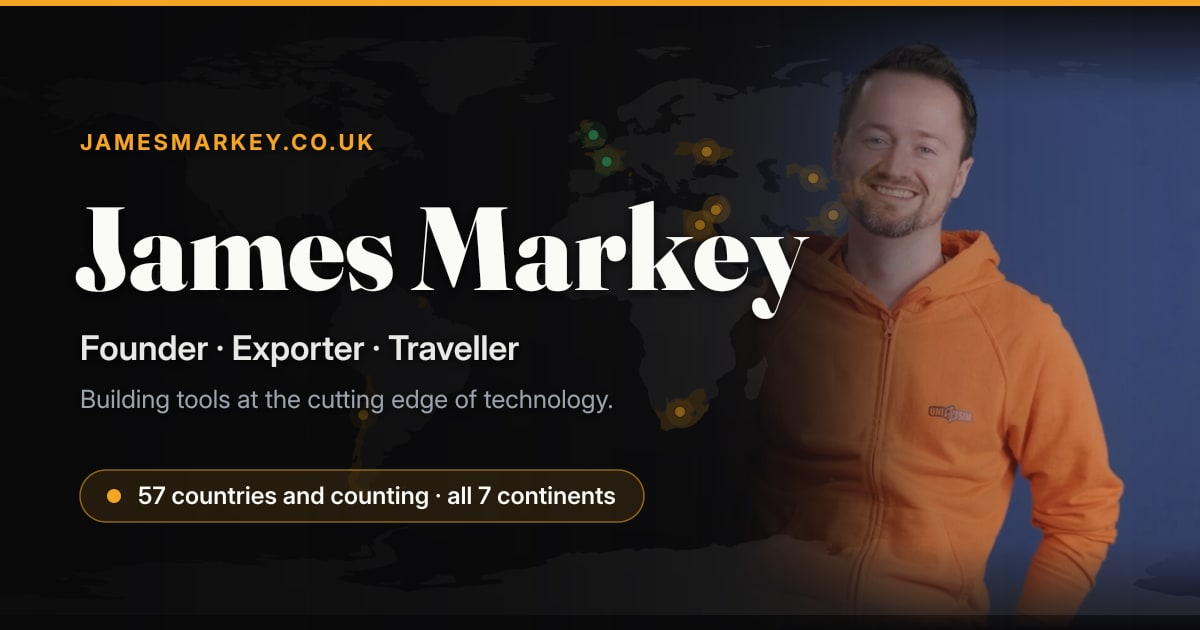
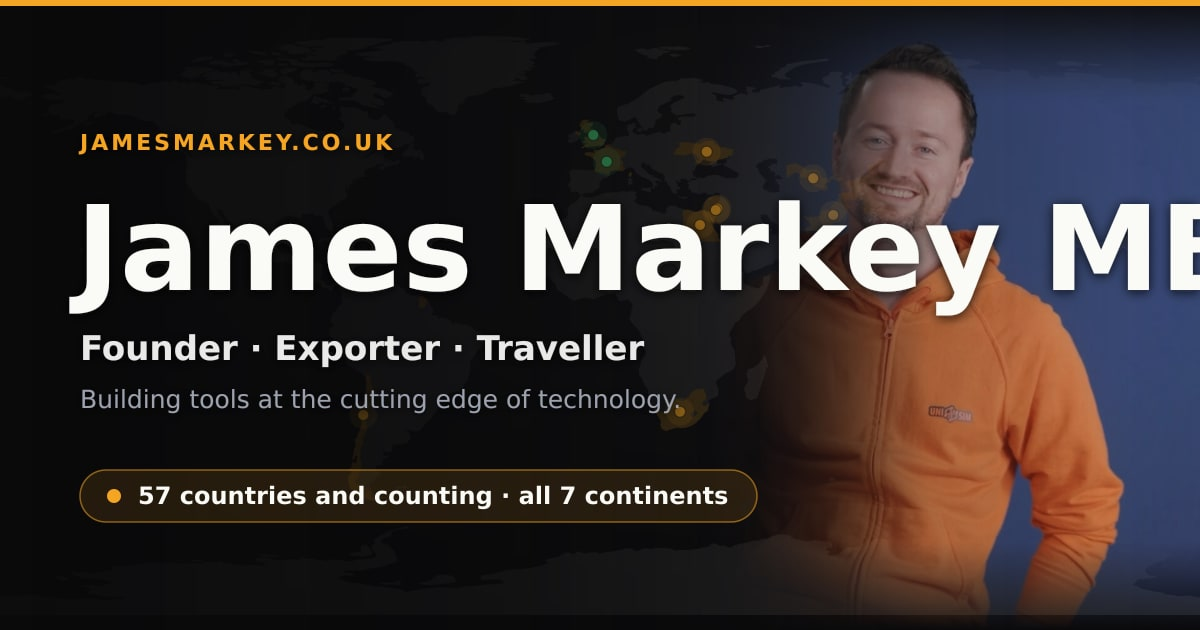
Add MBE post-nominal to name title across the site (#36)
Reflect the MBE awarded in the King's Birthday Honours 2026 in the site's
name/title:
- Homepage hero heading and eyebrow now read 'James Markey MBE'
- Site name and SEO/browser title updated to 'James Markey MBE'
- OG social card text and regenerated og-default.jpg

https://claude.ai/code/session_01Ry5M7XUGwJ19zAsFGvo34n

diff --git a/src/data/site.ts b/src/data/site.ts
@@ -1,7 +1,7 @@
 export const site = {
-  name: 'James Markey',
+  name: 'James Markey MBE',
   url: 'https://jamesmarkey.co.uk',
-  title: 'James Markey — Entrepreneur, Export Champion, Traveller',
+  title: 'James Markey MBE — Entrepreneur, Export Champion, Traveller',
   description:
     'Personal site of James Markey: founder of UNI SIM, Commercial Director of HRV Simulation, UK Export Champion for the Department for Business and Trade, and mental-health advocate.',
   tagline: 'Founder, exporter, traveller — building tools at the cutting edge of technology.',
